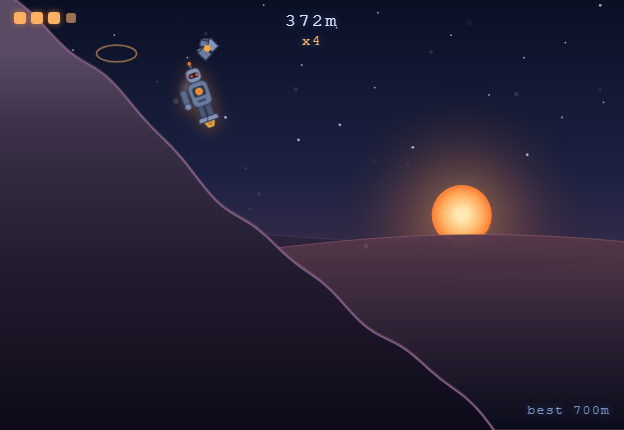
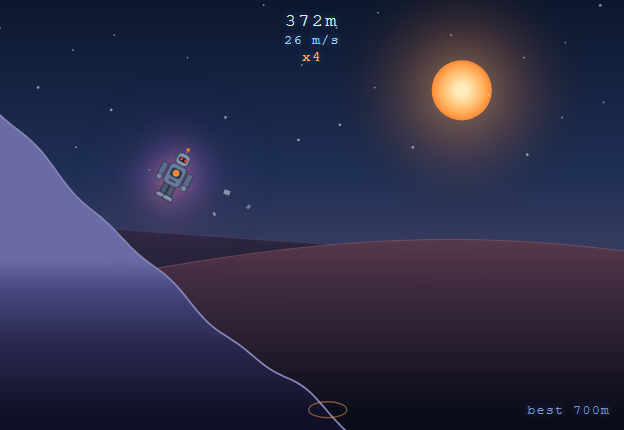
Implement preview capture mode in Airborne Robot game
- Added CSS styles and JavaScript functions to support a new preview capture mode, allowing for a customized game display.
- Introduced variables for preview capture dimensions and settings, enhancing gameplay experience.
- Updated game rendering logic to accommodate the new preview capture functionality, ensuring smooth transitions between modes.

diff --git a/Web Main Menu/Extras/games/airborne-robot/index.html b/Web Main Menu/Extras/games/airborne-robot/index.html
@@ -706,6 +706,18 @@
       letter-spacing: 0.08em;
       line-height: 1;
     }
+
+    html.preview-capture,
+    html.preview-capture body {
+      width: 624px;
+      height: 430px;
+      overflow: hidden;
+    }
+
+    html.preview-capture #gameRoot {
+      width: 624px;
+      height: 430px;
+    }
   </style>
 </head>
 <body>
@@ -860,6 +872,14 @@
     var COMBO_PREFIX = "x";
 
     var METERS_PER_UNIT = 0.06;
+
+    var PREVIEW_CAPTURE_QUERY = "previewCapture=1";
+    var PREVIEW_CAPTURE_WIDTH = 624;
+    var PREVIEW_CAPTURE_HEIGHT = 430;
+    var PREVIEW_CAPTURE_DISTANCE_METERS = 372;
+    var PREVIEW_CAPTURE_HIGH_SCORE_METERS = 700;
+    var PREVIEW_CAPTURE_COMBO_COUNT = 4;
+    var previewCaptureMode = window.location.search.indexOf(PREVIEW_CAPTURE_QUERY) >= 0;
 
     // ========== DEBUG-ONLY — revert: delete this entire block ==========
     var DEBUG_MODE_KEY_CODE = "F8";
@@ -5002,6 +5022,92 @@
       gameRoot.style.transform = "translate(" + shake.x + "px, " + shake.y + "px)";
     }
 
+    function addPreviewDebrisParticle(screenX, screenY, size, rotation, color) {
+      debrisParticles.push({
+        x: screenX,
+        y: screenY,
+        velocityX: 0,
+        velocityY: 0,
+        rotation: rotation,
+        spin: 0,
+        size: size,
+        age: 0.2,
+        life: 1.4,
+        color: color
+      });
+    }
+
+    function setupPreviewCapture() {
+      var ringWorldX;
+      var debrisColors;
+      var index;
+      document.documentElement.classList.add("preview-capture");
+      width = PREVIEW_CAPTURE_WIDTH;
+      height = PREVIEW_CAPTURE_HEIGHT;
+      devicePixelRatioScale = 1;
+      canvas.width = width;
+      canvas.height = height;
+      canvas.style.width = width + "px";
+      canvas.style.height = height + "px";
+      gameRoot.style.width = width + "px";
+      gameRoot.style.height = height + "px";
+      document.body.style.width = width + "px";
+      document.body.style.height = height + "px";
+      context.setTransform(1, 0, 0, 1, 0, 0);
+      robotPx = Math.max(64, Math.min(140, Math.min(width, height) * 0.16));
+      footReach = robotPx * footReachRatio;
+      robotWrap.style.width = getRobotWrapWidth() + "px";
+      robotWrap.style.height = getRobotWrapHeight() + "px";
+      playerScreenX = width * 0.28;
+      gamePhase = PHASE_PLAYING;
+      distanceMeters = PREVIEW_CAPTURE_DISTANCE_METERS;
+      highScoreMeters = PREVIEW_CAPTURE_HIGH_SCORE_METERS;
+      comboCount = PREVIEW_CAPTURE_COMBO_COUNT;
+      forwardSpeed = 430;
+      worldScroll = distanceMeters / METERS_PER_UNIT;
+      playerWorldX = worldScroll + playerScreenX;
+      plateauEndWorldX = playerScreenX + robotPx * PLATEAU_EDGE_OFFSET_FACTOR;
+      playerYOffset = -92;
+      playerVelocityY = -110;
+      robotAngle = 0.48;
+      robotGlowStrength = 0.74;
+      cameraScale = 0.9;
+      beaconsSpawnedCount = Math.floor(distanceMeters / BEACON_INTERVAL_METERS);
+      beacons.length = 0;
+      spawnBeacons();
+      ringWorldX = playerWorldX + 170;
+      landingRings.push({
+        worldX: ringWorldX,
+        groundY: groundWave(ringWorldX),
+        age: 0.24,
+        life: 0.5,
+        maxRadius: 44,
+        quality: "good"
+      });
+      debrisColors = getDebrisColorPair();
+      addPreviewDebrisParticle(playerScreenX + 58, getPlayerGroundY() + playerYOffset - footReach + 18, 8, 0.35, debrisColors.light);
+      addPreviewDebrisParticle(playerScreenX + 82, getPlayerGroundY() + playerYOffset - footReach + 34, 6, -0.8, debrisColors.dark);
+      addPreviewDebrisParticle(playerScreenX + 44, getPlayerGroundY() + playerYOffset - footReach + 42, 5, 1.1, debrisColors.light);
+      hideGameScreen();
+      hideRobotColorPicker();
+      gameScreen.classList.add("hidden");
+      hudPlaying.classList.remove("hidden");
+      debugPanel.classList.add("hidden");
+      damageFlash.style.display = "none";
+      launchLeg.classList.remove("is-visible");
+      hudDistance.textContent = formatMeters(distanceMeters);
+      setSpeedHud();
+      setComboHud();
+      setHighScoreHud();
+      for (index = 0; index < skyCraft.length; index++) {
+        skyCraft[index].x = (index + 0.5) / skyCraft.length * width;
+      }
+      skyCraftSeeded = true;
+      positionRobotDom();
+      updateRobotGlowFilter();
+      window.__previewCaptureReady = true;
+    }
+
     function render() {
       applyScreenShake();
       context.save();
@@ -5079,12 +5185,17 @@
     bindLocaleListener();
     loadHighScore();
     debugSpawnInput.value = String(DEBUG_SPAWN_DEFAULT_METERS);
-    resizeCanvas();
-    showStartScreen();
-    applyGameLocale();
-    positionRobotDom();
-    render();
-    window.requestAnimationFrame(gameLoop);
+    if (previewCaptureMode) {
+      setupPreviewCapture();
+      render();
+    } else {
+      resizeCanvas();
+      showStartScreen();
+      applyGameLocale();
+      positionRobotDom();
+      render();
+      window.requestAnimationFrame(gameLoop);
+    }
   </script>
 </body>
 </html>
